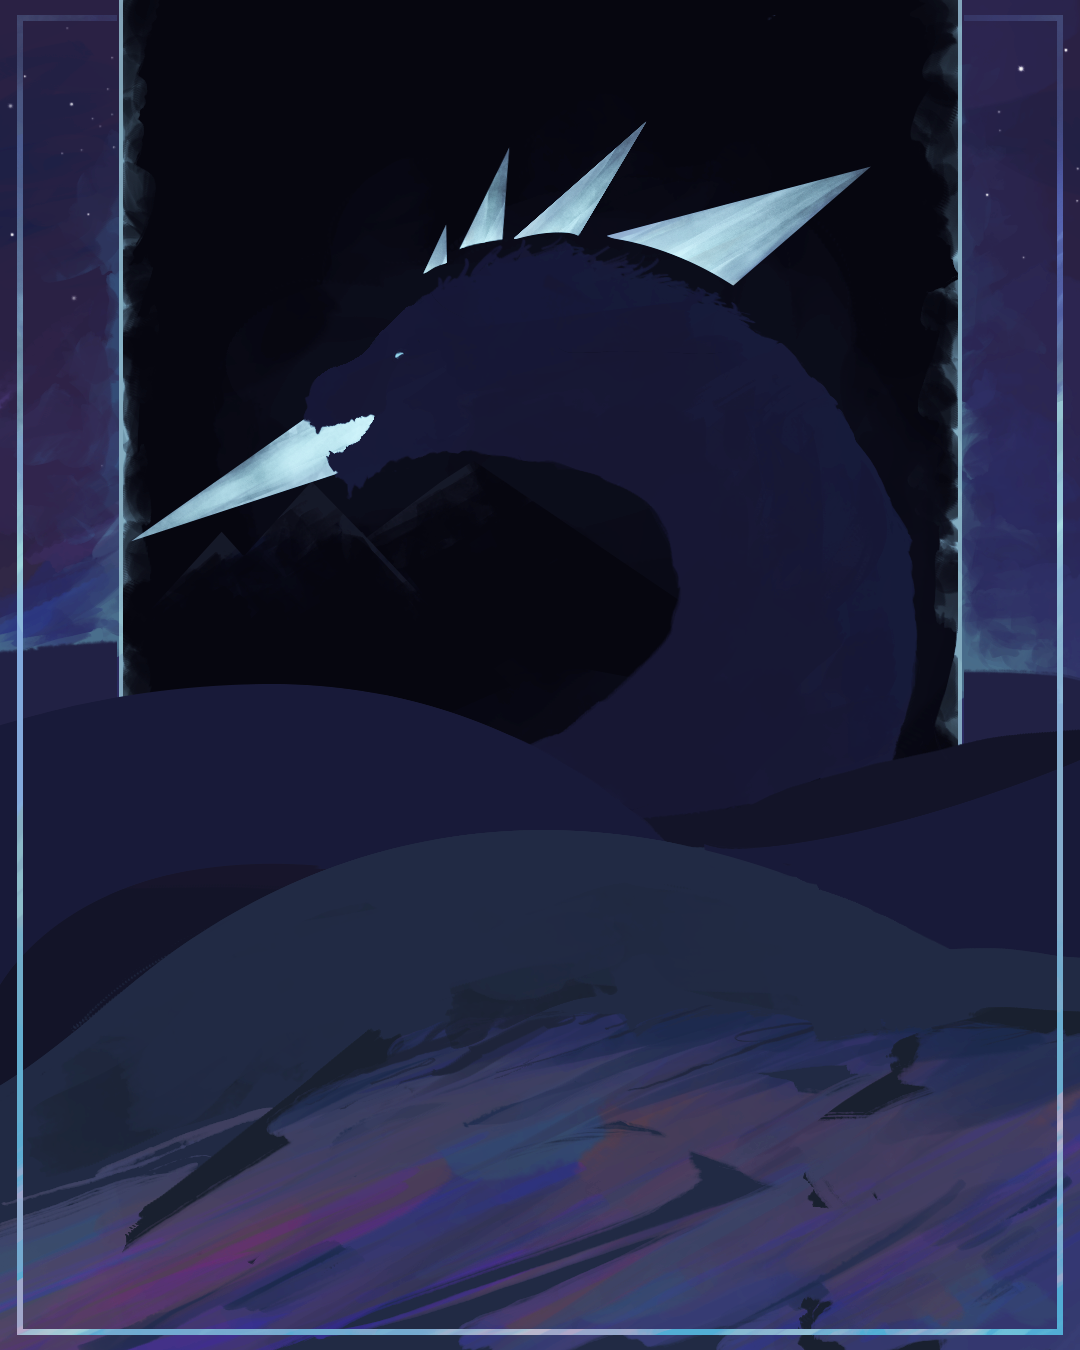
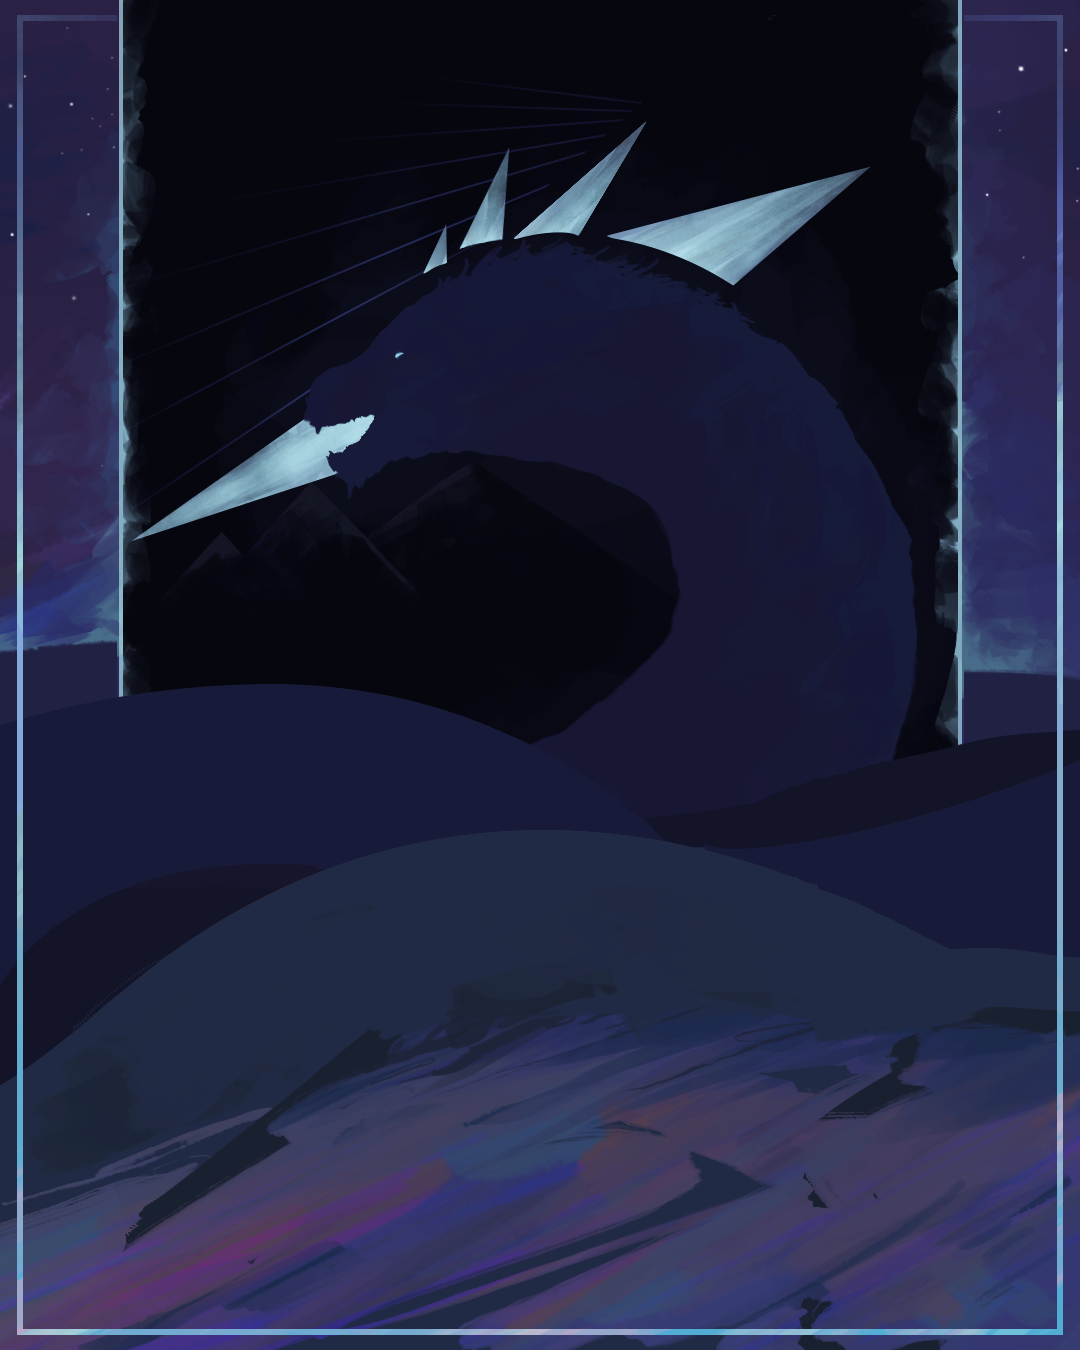
JS tweak

Changed region(s): [[0.5806, 0.1244, 0.7944, 0.2178], [0.3972, 0.0933, 0.5806, 0.2178], [0.1222, 0.3111, 0.3361, 0.4044]]

diff --git a/jsc/scripts.js b/jsc/scripts.js
@@ -91,6 +91,20 @@ function setupRandomLink() {
     if (!link || !sequenceContainer) return;
     let hasBeenClicked = false;
 
+    function resetState() {
+        hasBeenClicked = false;
+        img1.style.opacity = 1;
+        img2.style.opacity = 0;
+        document.body.style.overflow = "";
+        document.querySelectorAll(".dynamic-shift-cover").forEach(el => el.remove());
+        const text = document.getElementById("sequence-text");
+        if (text) text.remove();
+    }
+
+    window.addEventListener("pageshow", (event) => {
+        if (event.persisted) resetState();
+    });
+
     box.addEventListener("mouseenter", () => {
         if (!hasBeenClicked){
             img1.style.opacity = 0;
